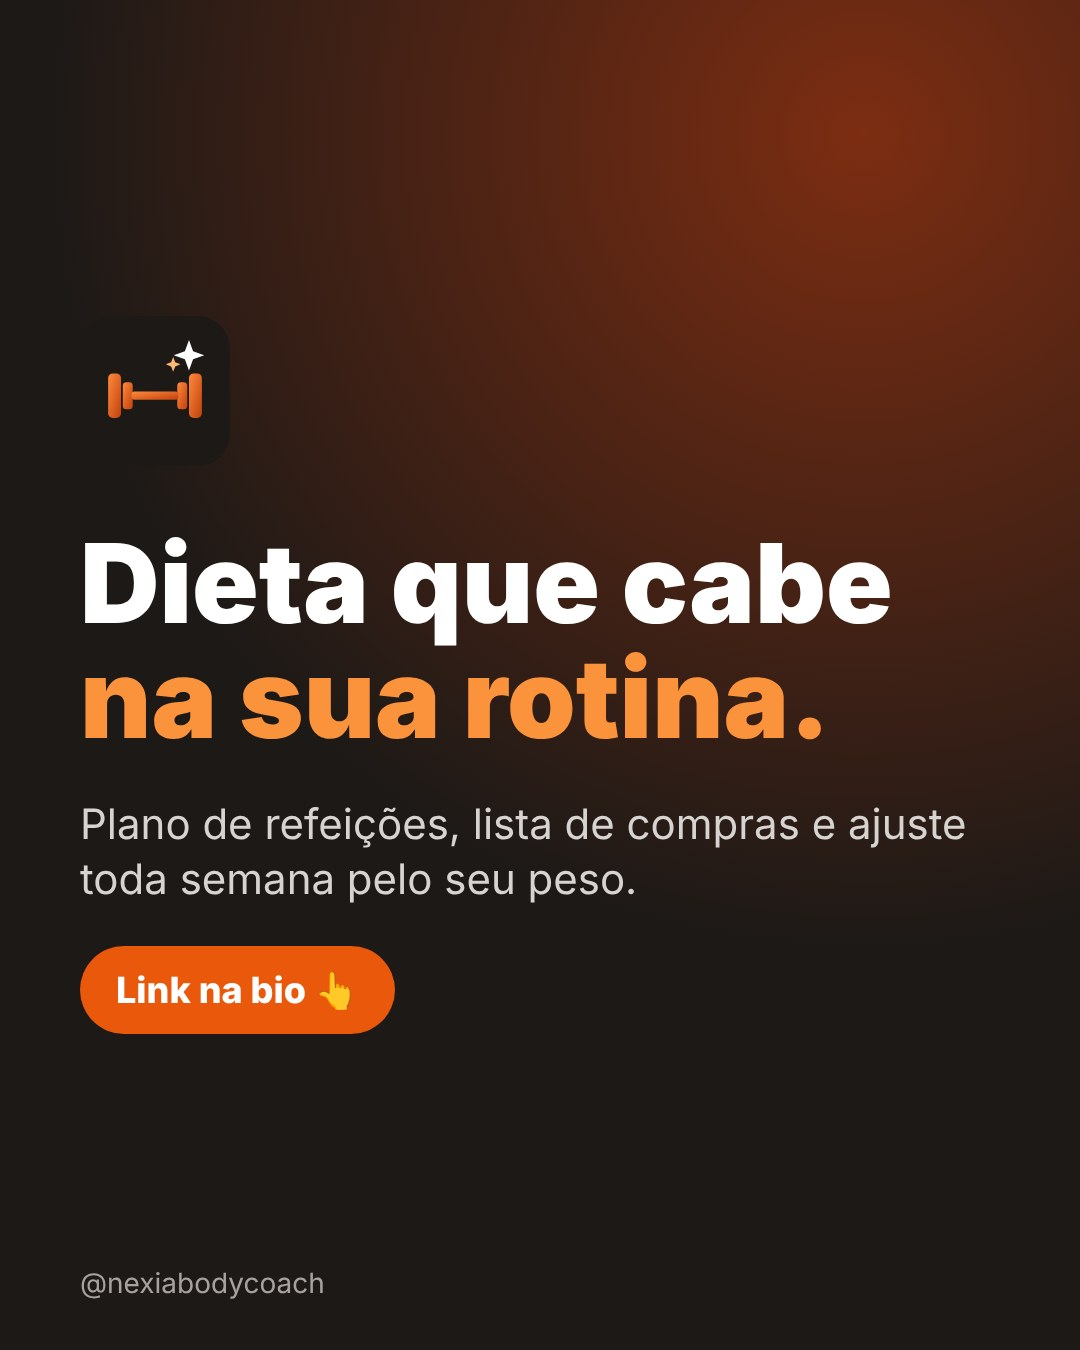
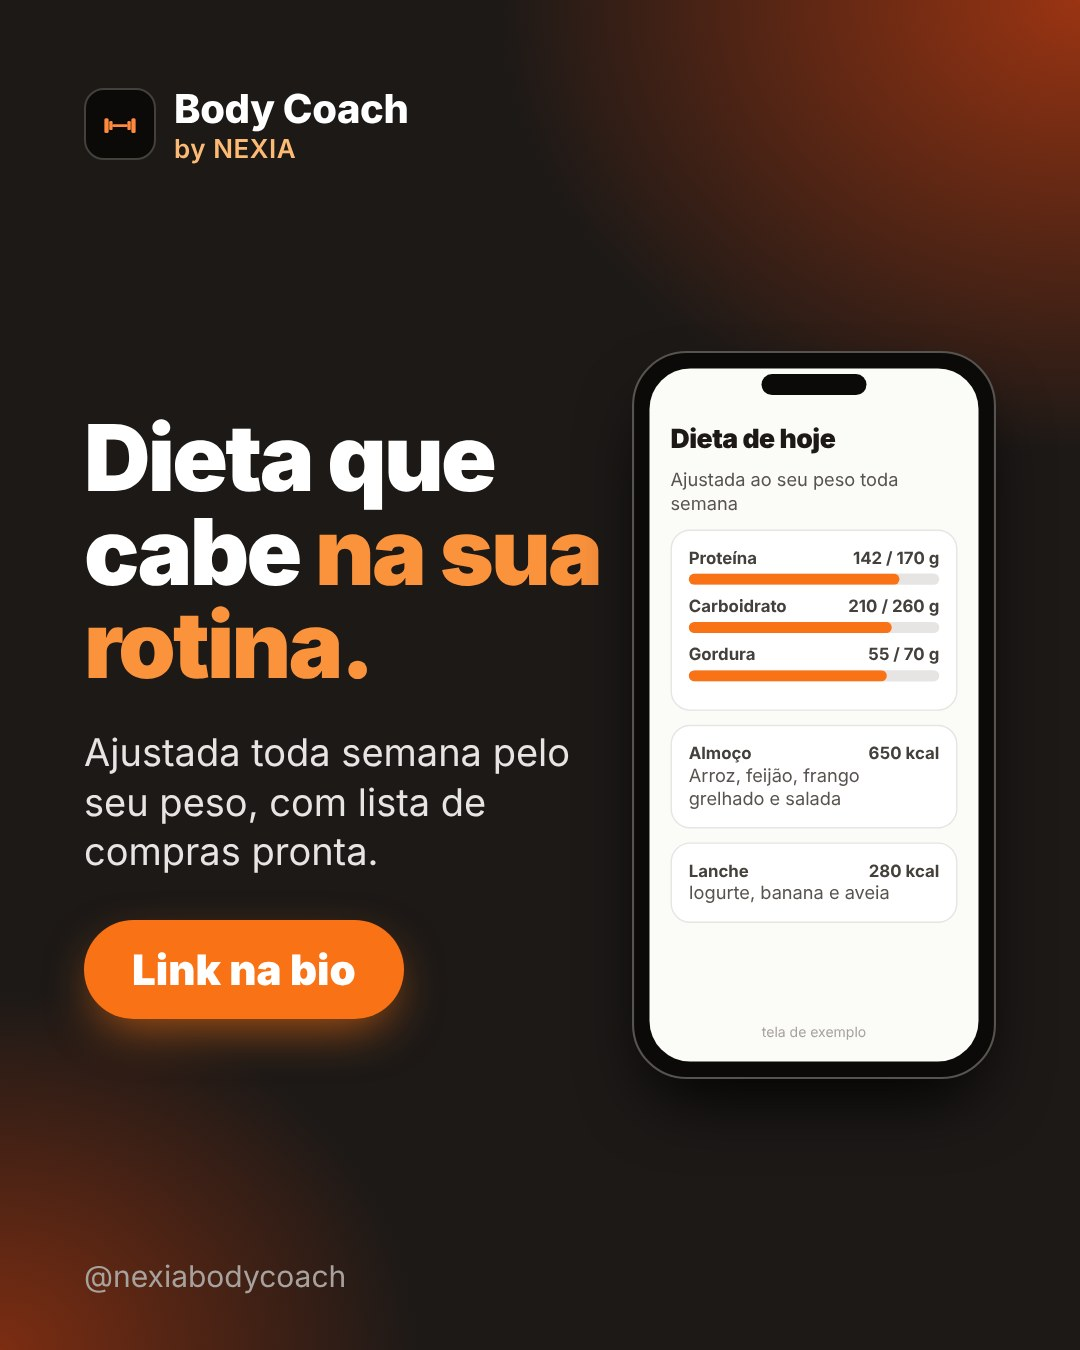
Divulga: visual de marca, postUnico e 6 imagens do feed refeitas
Claude-Session: https://claude.ai/code/session_011ic2LoNV8sh6zTq22FbG4G

diff --git a/divulga/lib/visual.js b/divulga/lib/visual.js
@@ -1,46 +1,112 @@
 'use strict';
 // Modelos visuais do Divulga em HTML (viram PNG no Chromium do GitHub Actions): carrossel de 5 telas,
-// story 1080x1920 com contagem e pergunta, e post antes/depois com prints reais do app.
+// story 1080x1920 e post antes/depois. Visual de marca (laranja do Body Coach) com celular mostrando telas do app.
+// As telas do celular são desenhadas aqui com dados de exemplo (marcadas como "exemplo") para o post nunca depender de print.
 
-const esc = s => String(s == null ? '' : s).replace(/[&<>"]/g, c => ({ '&': '&amp;', '<': '&lt;', '>': '&gt;', '"': '&quot;' }[c]));
+const esc = s => String(s == null ? '' : s).replace(/[&<>"]/g, c => ({ '&': '&amp;', '<': '&lt;', '>': '&gt;', "'": '&#39;', '"': '&quot;' }[c]));
 
-const CSS = `*{box-sizing:border-box;margin:0}body{width:var(--w);height:var(--h);font-family:Inter,Arial,Helvetica,sans-serif;background:#000;color:#fff;overflow:hidden;display:flex;flex-direction:column;justify-content:center;padding:90px;position:relative}
-.logo{position:absolute;top:70px;left:90px;display:flex;align-items:center;gap:20px;font-weight:800;letter-spacing:.35em;font-size:34px;color:#cfd3d8}
-.logo i{width:64px;height:64px;border-radius:16px;background:#111;border:2px solid #333;display:grid;place-items:center;font-style:normal;font-size:40px;letter-spacing:0;color:#d9dde2}
-h1{font-size:96px;line-height:1.05;font-weight:900;letter-spacing:-.02em}h1 b{color:#35e0b5}h2{font-size:64px;line-height:1.1;margin-bottom:30px}
-p{font-size:46px;line-height:1.3;color:#c9cdd3}.num{position:absolute;bottom:70px;right:90px;font-size:34px;color:#6b7078}
-.cta{display:inline-block;margin-top:50px;background:#35e0b5;color:#000;font-weight:900;font-size:50px;padding:28px 56px;border-radius:999px}
-img.print{width:100%;border-radius:36px;border:2px solid #2a2d33}.par{display:grid;grid-template-columns:1fr 1fr;gap:30px}.par div{text-align:center;font-size:36px;color:#9aa0a8}.par img{margin-top:16px}`;
+const HALTERE = '<svg viewBox="0 0 512 512" width="1em" height="1em"><g fill="#ff8a3d"><rect x="96" y="196" width="44" height="152" rx="16"/><rect x="146" y="226" width="34" height="92" rx="12"/><rect x="372" y="196" width="44" height="152" rx="16"/><rect x="332" y="226" width="34" height="92" rx="12"/><rect x="176" y="258" width="160" height="28" rx="10"/></g></svg>';
 
-function pagina(largura, altura, miolo) {
-  return `<!doctype html><html lang="pt-BR"><meta charset="utf-8"><style>:root{--w:${largura}px;--h:${altura}px}${CSS}</style><body><div class="logo"><i>N</i>NEXIA</div>${miolo}</body></html>`;
+const CSS = `*{box-sizing:border-box;margin:0}
+body{width:var(--w);height:var(--h);font-family:Inter,"Segoe UI",Arial,Helvetica,sans-serif;color:#fff;overflow:hidden;position:relative;padding:84px;display:flex;flex-direction:column;
+background:radial-gradient(900px 700px at 100% 0,#9a3412 0,transparent 65%),radial-gradient(700px 600px at 0 100%,#7c2d12 0,transparent 60%),#1c1917}
+.marca{display:flex;align-items:center;gap:18px;font-weight:800;font-size:40px;letter-spacing:-.01em}
+.marca i{width:72px;height:72px;border-radius:20px;background:#0c0a09;border:2px solid #44403c;display:grid;place-items:center;font-size:50px;font-style:normal}
+.marca small{font-size:26px;font-weight:600;color:#fdba74;letter-spacing:.02em;display:block}
+.miolo{flex:1;display:flex;flex-direction:column;justify-content:center}
+h1{font-size:104px;line-height:1.02;font-weight:900;letter-spacing:-.03em}h1 b,h2 b{color:#fb923c}
+h2{font-size:72px;line-height:1.08;font-weight:900;letter-spacing:-.02em;margin-bottom:28px}
+p{font-size:42px;line-height:1.3;color:#e7e5e4}
+.cta{display:inline-block;margin-top:44px;background:#f97316;color:#fff;font-weight:900;font-size:50px;padding:28px 60px;border-radius:999px;box-shadow:0 18px 50px -12px rgba(249,115,22,.7)}
+.num{position:absolute;bottom:56px;right:84px;font-size:30px;color:#a8a29e}.arroba{position:absolute;bottom:56px;left:84px;font-size:30px;color:#a8a29e}
+.cel{width:520px;height:1040px;border-radius:78px;background:#0c0a09;border:3px solid #57534e;padding:22px;box-shadow:0 50px 100px -30px #000;position:relative;flex:none}
+.cel:before{content:"";position:absolute;top:30px;left:50%;width:150px;height:30px;margin-left:-75px;border-radius:20px;background:#0c0a09;z-index:3}
+.tela{width:100%;height:100%;border-radius:58px;background:#fbfbf7;color:#1c1917;overflow:hidden;padding:76px 30px 30px;display:flex;flex-direction:column;gap:20px}
+.tela p{font-size:26px;color:#57534e;line-height:1.3}.tela h3{font-size:38px;font-weight:900;letter-spacing:-.02em}
+.cartao{background:#fff;border:2px solid #e7e5e4;border-radius:28px;padding:24px}.laranja{background:#f97316;color:#fff;border:0}.laranja p,.laranja h3{color:#fff}
+.botao{background:#1c1917;color:#fff;border-radius:20px;padding:20px;text-align:center;font-weight:800;font-size:28px;margin-top:14px}
+.barra{height:16px;border-radius:9px;background:#e7e5e4;overflow:hidden;margin:8px 0 16px}.barra i{display:block;height:100%;background:#f97316;border-radius:9px}
+.rot{display:flex;justify-content:space-between;font-size:24px;font-weight:700;color:#44403c}
+.bal{border-radius:26px;padding:20px 24px;font-size:26px;line-height:1.3;max-width:88%}.eu{background:#f97316;color:#fff;align-self:flex-end}.co{background:#f5f5f4;color:#1c1917}
+.ex{font-size:20px;color:#a8a29e;text-align:center;margin-top:auto}
+.dois{display:flex;gap:40px;justify-content:center;align-items:flex-start}.dois .cel{transform:scale(.8);transform-origin:top center;margin:0 -50px -200px}
+.lista{display:grid;grid-template-columns:1fr 1fr;gap:26px;margin-top:20px}.lista div{background:rgba(255,255,255,.07);border:2px solid rgba(255,255,255,.12);border-radius:32px;padding:34px;font-size:36px;font-weight:800;line-height:1.2}.lista span{display:block;font-size:64px;margin-bottom:14px}
+.img{width:100%;height:100%;object-fit:cover;border-radius:58px}`;
+
+function pagina(largura, altura, miolo, { ordem, de, arroba = '@nexiabodycoach', rodape = true } = {}) {
+  return `<!doctype html><html lang="pt-BR"><meta charset="utf-8"><style>:root{--w:${largura}px;--h:${altura}px}${CSS}</style><body><div class="marca"><i>${HALTERE}</i><div>Body Coach<small>by NEXIA</small></div></div><div class="miolo">${miolo}</div>${rodape ? `<div class="arroba">${esc(arroba)}</div>` : ''}${ordem ? `<div class="num">${ordem}/${de}</div>` : ''}</body></html>`;
 }
 
-/** Carrossel 1080x1350: problema → app → recursos → prova → chamada. */
+const aviso = '<div class="ex">tela de exemplo</div>';
+const celular = (corpo, estilo = '') => `<div class="cel" style="${estilo}"><div class="tela">${corpo}</div></div>`;
+const comPrint = (src, estilo) => `<div class="cel" style="${estilo || ''}"><div class="tela" style="padding:0"><img class="img" src="${esc(src)}"></div></div>`;
+
+const telaHoje = () => `<p>Bom dia, Rafa 👋</p><h3>Treino de hoje</h3>
+<div class="cartao laranja"><h3>Peito e tríceps</h3><p style="margin-top:6px">6 exercícios · 55 min</p><div class="botao" style="background:#fff;color:#c2410c">Começar treino</div></div>
+<div class="cartao"><div class="rot"><span>🔥 12 dias seguidos</span><span>Meta: 4x</span></div><div class="barra"><i style="width:75%"></i></div><p>3 de 4 treinos da semana</p></div>
+<div class="cartao"><div class="rot"><span>Calorias</span><span>1.640 / 2.100</span></div><div class="barra"><i style="width:78%"></i></div></div>${aviso}`;
+
+const telaDieta = () => `<h3>Dieta de hoje</h3><p>Ajustada ao seu peso toda semana</p>
+<div class="cartao"><div class="rot"><span>Proteína</span><span>142 / 170 g</span></div><div class="barra"><i style="width:84%"></i></div><div class="rot"><span>Carboidrato</span><span>210 / 260 g</span></div><div class="barra"><i style="width:81%"></i></div><div class="rot"><span>Gordura</span><span>55 / 70 g</span></div><div class="barra"><i style="width:79%"></i></div></div>
+<div class="cartao"><div class="rot"><span>Almoço</span><span>650 kcal</span></div><p>Arroz, feijão, frango grelhado e salada</p></div>
+<div class="cartao"><div class="rot"><span>Lanche</span><span>280 kcal</span></div><p>Iogurte, banana e aveia</p></div>${aviso}`;
+
+const telaEvolucao = () => `<h3>Sua evolução</h3><p>Últimas 8 semanas</p>
+<div class="cartao"><div class="rot"><span>Peso</span><span style="color:#16a34a">−4,3 kg</span></div>
+<svg viewBox="0 0 400 180" width="100%" style="margin-top:12px"><polyline points="10,30 70,48 130,62 190,75 250,100 310,118 370,140" fill="none" stroke="#f97316" stroke-width="8" stroke-linecap="round" stroke-linejoin="round"/><circle cx="370" cy="140" r="12" fill="#f97316"/></svg></div>
+<div class="cartao"><div class="rot"><span>Cintura</span><span style="color:#16a34a">−5 cm</span></div><div class="rot" style="margin-top:10px"><span>Supino</span><span style="color:#16a34a">+15 kg</span></div></div>
+<div class="cartao"><p>📸 Fotos lado a lado mostram o que a balança não mostra.</p></div>${aviso}`;
+
+const telaCoach = () => `<h3>Falar com o Coach</h3>
+<div class="bal eu">Posso trocar o supino por outro exercício? Meu ombro incomodou.</div>
+<div class="bal co">Pode. Troque por supino com halteres, pegada neutra, 3x12. Se a dor continuar, procure um profissional de saúde.</div>
+<div class="bal eu">Fechou, obrigado!</div>${aviso}`;
+
+// celular reduzido que ocupa só o espaço visual (o transform sozinho deixa o tamanho original no layout)
+const reduzido = (cel, k = 0.7) => `<div style="width:${Math.round(520 * k)}px;height:${Math.round(1040 * k)}px;position:relative;flex:none"><div style="position:absolute;top:0;left:0;transform:scale(${k});transform-origin:top left">${cel}</div></div>`;
+
+function usaPrint(prints, i, fallback, estilo) {
+  return prints[i] ? comPrint(prints[i], estilo) : celular(fallback(), estilo);
+}
+
+/** Carrossel 1080x1350: problema, app, recursos, prova, chamada. */
 function carrossel(cliente, { prints = [], recursos = [] } = {}) {
-  const nome = esc(cliente.nome);
-  const lista = (recursos.length ? recursos : cliente.assuntos || []).slice(0, 4).map(r => `<p>✔ ${esc(r)}</p>`).join('');
+  const nome = esc(String(cliente.nome || '').replace(/^NEXIA\s+/i, ''));
+  const itens = (recursos.length ? recursos : cliente.assuntos || []).slice(0, 4);
+  const icones = ['🏋', '🥗', '📈', '🏷'];
+  const lista = `<div class="lista">${itens.map((r, i) => `<div><span>${icones[i % 4]}</span>${esc(r)}</div>`).join('')}</div>`;
+  const metade = (texto, cel) => `<div style="display:flex;gap:30px;align-items:center;justify-content:space-between"><div style="flex:1">${texto}</div>${reduzido(cel, 0.72)}</div>`;
   const telas = [
-    `<h1>Treina e <b>não vê resultado?</b></h1><p style="margin-top:40px">Sem plano, sem dieta e sem acompanhamento, a motivação acaba na 3ª semana.</p>`,
-    `<h2>Conheça o <b style="color:#35e0b5">${nome}</b></h2><p>Treino, dieta e evolução num só app, com IA que se ajusta a você.</p>${prints[0] ? `<img class="print" style="margin-top:40px;max-height:560px;object-fit:cover" src="${esc(prints[0])}">` : ''}`,
-    `<h2>O que você tem</h2>${lista}`,
-    `<h2>Quem usa, <b style="color:#35e0b5">evolui</b></h2><p>Fotos, medidas e cargas lado a lado mostram o progresso real, semana a semana.</p>${prints[1] ? `<img class="print" style="margin-top:40px;max-height:560px;object-fit:cover" src="${esc(prints[1])}">` : ''}`,
-    `<h1>Comece <b>grátis</b> hoje</h1><p style="margin-top:30px">Sem cartão. Cancele quando quiser.</p><span class="cta">Link na bio · Comente QUERO</span>`,
+    `<h1>Treina e <b>não vê resultado?</b></h1><p style="margin-top:44px">Sem plano, sem dieta e sem acompanhamento, a motivação acaba na 3ª semana.</p>`,
+    metade(`<h2>Conheça o <b>${nome}</b></h2><p>Treino, dieta e evolução num só app, com IA que se ajusta a você.</p>`, usaPrint(prints, 0, telaHoje)),
+    `<h2>O que você <b>tem</b></h2>${lista}`,
+    metade(`<h2>Quem usa, <b>evolui</b></h2><p>Fotos, medidas e cargas lado a lado mostram o progresso real, semana a semana.</p>`, usaPrint(prints, 1, telaEvolucao)),
+    `<h1>Comece <b>grátis</b> hoje</h1><p style="margin-top:30px">Sem cartão. Cancele quando quiser.</p><span class="cta" style="align-self:flex-start">Link na bio · Comente QUERO</span>`,
   ];
-  return telas.map((t, i) => pagina(1080, 1350, `${t}<div class="num">${i + 1}/5</div>`));
+  return telas.map((t, i) => pagina(1080, 1350, t, { ordem: i + 1, de: 5 }));
 }
 
 /** Story 1080x1920 com contagem regressiva (dias até `ate`) e uma pergunta. */
 function story(cliente, { pergunta = 'Você treina quantas vezes por semana?', ate, hoje = new Date() } = {}) {
   const dias = ate ? Math.max(0, Math.ceil((new Date(ate) - hoje) / 86400000)) : null;
-  const contagem = dias === null ? '' : `<p style="font-size:60px;color:#35e0b5;font-weight:900;margin-bottom:30px">${dias === 0 ? 'É HOJE' : `Faltam ${dias} dia${dias === 1 ? '' : 's'}`}</p>`;
-  return pagina(1080, 1920, `${contagem}<h1>${esc(pergunta)}</h1><p style="margin-top:60px">Responda aqui no story 👇</p><span class="cta" style="align-self:flex-start">Teste grátis · link na bio</span>`);
+  const contagem = dias === null ? '' : `<p style="font-size:60px;color:#fb923c;font-weight:900;margin-bottom:30px">${dias === 0 ? 'É HOJE' : `Faltam ${dias} dia${dias === 1 ? '' : 's'}`}</p>`;
+  return pagina(1080, 1920, `${contagem}<h1>${esc(pergunta)}</h1><div style="display:flex;justify-content:center;height:840px;margin-top:60px"><div style="transform:scale(.8);transform-origin:top center">${celular(telaCoach())}</div></div><span class="cta" style="align-self:center;margin-top:40px">Teste grátis · link na bio</span>`, { rodape: false });
 }
 
-/** Post antes/depois 1080x1350 com dois prints reais do app. */
+/** Post antes/depois 1080x1350: duas telas lado a lado (dieta e evolução, ou prints). */
 function antesDepois(cliente, { antes, depois, legenda = 'Evolução com acompanhamento', rotuloAntes = 'ANTES', rotuloDepois = 'DEPOIS' } = {}) {
-  const img = s => (s ? `<img class="print" src="${esc(s)}">` : '');
-  return pagina(1080, 1350, `<h2>${esc(legenda)}</h2><div class="par"><div>${esc(rotuloAntes)}${img(antes)}</div><div>${esc(rotuloDepois)}${img(depois)}</div></div><span class="cta" style="align-self:flex-start">Link na bio</span>`);
+  const rot = t => `<div style="text-align:center;font-size:34px;font-weight:800;color:#fdba74;letter-spacing:.12em;margin-bottom:16px">${esc(t)}</div>`;
+  const a = antes ? comPrint(antes) : celular(telaDieta());
+  const d = depois ? comPrint(depois) : celular(telaEvolucao());
+  return pagina(1080, 1350, `<h2 style="text-align:center">${esc(legenda)}</h2><div class="dois"><div>${rot(rotuloAntes)}${a}</div><div>${rot(rotuloDepois)}${d}</div></div>`, { rodape: false });
 }
 
-module.exports = { carrossel, story, antesDepois, pagina, esc };
+/** Post único do feed 1080x1350: título grande, texto curto e uma tela do app ao lado. `tela`: hoje | dieta | evolucao | coach. */
+function postUnico(cliente, { titulo = '', destaque = '', texto = '', tela = 'hoje', botao = 'Link na bio' } = {}) {
+  const telas = { hoje: telaHoje, dieta: telaDieta, evolucao: telaEvolucao, coach: telaCoach };
+  const cel = celular((telas[tela] || telaHoje)());
+  const lado = `<h1 style="font-size:92px">${esc(titulo)}${destaque ? ` <b>${esc(destaque)}</b>` : ''}</h1><p style="margin-top:36px;font-size:38px">${esc(texto)}</p><span class="cta" style="align-self:flex-start;font-size:42px;padding:24px 48px">${esc(botao)}</span>`;
+  return pagina(1080, 1350, `<div style="display:flex;gap:30px;align-items:center;justify-content:space-between"><div style="flex:1">${lado}</div>${reduzido(cel, 0.7)}</div>`);
+}
+
+module.exports = { carrossel, story, antesDepois, postUnico, pagina, esc };

diff --git a/divulga/gerar-fila.js b/divulga/gerar-fila.js
@@ -1,0 +1,30 @@
+'use strict';
+// Refaz as 6 imagens do feed do Body Coach (divulga/imagens/body-coach-N.jpg) no visual de marca com tela do app.
+// Uso: node divulga/gerar-fila.js   (precisa do Chromium do Playwright; DIVULGA_CHROMIUM aponta para o executável)
+const path = require('node:path');
+const { postUnico } = require('./lib/visual');
+
+const POSTS = [
+  { titulo: 'Seu personal', destaque: 'no bolso.', texto: 'Treino, dieta e evolução com inteligência artificial. Comece grátis.', tela: 'hoje' },
+  { titulo: 'Chega de ficha', destaque: 'copiada.', texto: 'Diga seu objetivo e o app monta o seu treino, com vídeo de cada exercício.', tela: 'hoje' },
+  { titulo: 'Dieta que cabe', destaque: 'na sua rotina.', texto: 'Ajustada toda semana pelo seu peso, com lista de compras pronta.', tela: 'dieta' },
+  { titulo: 'O que não é medido', destaque: 'não melhora.', texto: 'Peso, medidas e fotos de antes e depois num lugar só.', tela: 'evolucao' },
+  { titulo: 'Personal,', destaque: 'o app é seu.', texto: 'Fichas, dietas e cobrança por Pix com a sua marca. 30 dias grátis.', tela: 'coach', botao: 'Teste 30 dias grátis' },
+  { titulo: 'Topa o desafio', destaque: '30 dias?', texto: 'Um treino por dia, ranking e certificado. Comente EU VOU.', tela: 'hoje', botao: 'Comente EU VOU' },
+];
+
+async function main(saida = path.join(__dirname, 'imagens')) {
+  let chromium; try { ({ chromium } = require('@playwright/test')); } catch { ({ chromium } = require('playwright')); }
+  const navegador = await chromium.launch(process.env.DIVULGA_CHROMIUM ? { executablePath: process.env.DIVULGA_CHROMIUM } : {});
+  try {
+    for (const [i, p] of POSTS.entries()) {
+      const pg = await navegador.newPage({ viewport: { width: 1080, height: 1350 } });
+      await pg.setContent(postUnico({ nome: 'Body Coach' }, p), { waitUntil: 'load' });
+      await pg.screenshot({ path: path.join(saida, `body-coach-${i + 1}.jpg`), type: 'jpeg', quality: 88 });
+      await pg.close();
+    }
+  } finally { await navegador.close(); }
+}
+
+module.exports = { POSTS, main };
+if (require.main === module) main(process.argv[2]).then(() => console.log('6 imagens geradas')).catch(e => { console.error(e.message); process.exitCode = 1; });
